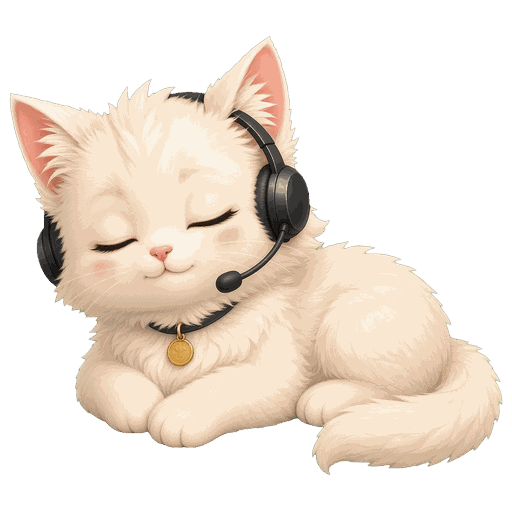
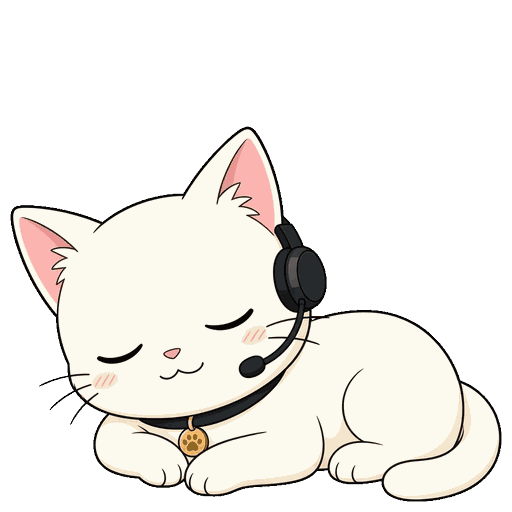
Restyle cat mascot as 2D anime cartoon with motion
Replace the painterly cat with cel-shaded anime poses (sleep,
scan, happy, sad, neutral), plus blink and glance frames.
CSS adds blink, ear twitch, head-tilt scanning, hop and
sparkles on wins, a falling tear on losses, and floating Zzz.
Trading logic is unchanged.

diff --git a/web/styles.css b/web/styles.css
@@ -380,6 +380,7 @@ td .num.bad  { color: var(--red); }
 
 
 
+
 /* ---------- brand + cat mascot ---------- */
 .brand { align-items: center; gap: 14px; min-width: 0; }
 .titles { min-width: 0; padding-top: 2px; flex: 1; }
@@ -406,65 +407,134 @@ td .num.bad  { color: var(--red); }
   width: 100%; height: 100%;
   transform-origin: 50% 90%;
 }
-.pose {
+.mood {
+  position: absolute;
+  inset: 0;
+  opacity: 0;
+  transition: opacity 0.38s ease;
+  pointer-events: none;
+}
+.cat-dock[data-mood="neutral"] .mood-neutral,
+.cat-dock:not([data-mood]) .mood-neutral { opacity: 1; }
+.cat-dock[data-mood="sleep"] .mood-sleep { opacity: 1; }
+.cat-dock[data-mood="scan"] .mood-scan { opacity: 1; }
+.cat-dock[data-mood="happy"] .mood-happy { opacity: 1; }
+.cat-dock[data-mood="sad"] .mood-sad { opacity: 1; }
+
+.frame {
   position: absolute;
   inset: 0;
   width: 100%; height: 100%;
   object-fit: contain;
   object-position: center bottom;
   opacity: 0;
-  transition: opacity 0.38s ease;
-  pointer-events: none;
   user-select: none;
   -webkit-user-drag: none;
+  pointer-events: none;
 }
-.cat-dock[data-mood="neutral"] .pose-neutral,
-.cat-dock:not([data-mood]) .pose-neutral { opacity: 1; }
-.cat-dock[data-mood="sleep"] .pose-sleep { opacity: 1; }
-.cat-dock[data-mood="scan"] .pose-scan { opacity: 1; }
-.cat-dock[data-mood="happy"] .pose-happy { opacity: 1; }
-.cat-dock[data-mood="sad"] .pose-sad { opacity: 1; }
+.mood .frame-open,
+.mood .frame-a { opacity: 1; }
 
-.zzz { display: none; }
-.cat-dock[data-mood="sleep"] .zzz { display: block; }
-
-@keyframes breathe {
-  0%, 100% { transform: translateY(0); }
-  50% { transform: translateY(-4px); }
+/* blink: flash the closed-eye frame over the open one */
+@keyframes blink-on {
+  0%, 82%, 93%, 100% { opacity: 0; }
+  84%, 91% { opacity: 1; }
 }
-@keyframes scan-bob {
-  0%, 100% { transform: translateY(0) rotate(-1.2deg); }
-  50% { transform: translateY(-5px) rotate(1.6deg); }
+@keyframes blink-off {
+  0%, 82%, 93%, 100% { opacity: 1; }
+  84%, 91% { opacity: 0; }
+}
+.cat-dock[data-mood="neutral"] .mood-neutral .frame-blink,
+.cat-dock[data-mood="happy"] .mood-happy .frame-blink,
+.cat-dock[data-mood="sad"] .mood-sad .frame-blink,
+.cat-dock[data-mood="scan"] .mood-scan .frame-blink {
+  z-index: 3;
+  animation: blink-on 3.8s steps(1, end) infinite;
+}
+.cat-dock[data-mood="neutral"] .mood-neutral .frame-open,
+.cat-dock[data-mood="happy"] .mood-happy .frame-open,
+.cat-dock[data-mood="sad"] .mood-sad .frame-open {
+  animation: blink-off 3.8s steps(1, end) infinite;
+}
+
+/* scan: glance left/right, blink covers both */
+@keyframes glance-a {
+  0%, 42% { opacity: 1; }
+  50%, 92% { opacity: 0; }
+  100% { opacity: 1; }
+}
+@keyframes glance-b {
+  0%, 42% { opacity: 0; }
+  50%, 92% { opacity: 1; }
+  100% { opacity: 0; }
+}
+.cat-dock[data-mood="scan"] .mood-scan .frame-a { animation: glance-a 3.4s ease-in-out infinite; }
+.cat-dock[data-mood="scan"] .mood-scan .frame-b { animation: glance-b 3.4s ease-in-out infinite; }
+.cat-dock[data-mood="scan"] .mood-scan .frame-blink { animation: blink-on 4.2s steps(1, end) infinite; }
+
+@keyframes idle-live {
+  0%, 100% { transform: translateY(0) rotate(0); }
+  28% { transform: translateY(-4px) rotate(0); }
+  56% { transform: translateY(0) rotate(0); }
+  74% { transform: translateY(-1px) rotate(-6deg); }
+  78% { transform: translateY(-1px) rotate(3deg); }
+  82% { transform: translateY(-2px) rotate(0); }
+}
+@keyframes scan-tilt {
+  0%, 42% { transform: translateY(-3px) rotate(-5deg); }
+  50%, 92% { transform: translateY(-5px) rotate(6deg); }
+  100% { transform: translateY(-3px) rotate(-5deg); }
 }
 @keyframes hop {
   0%, 100% { transform: translateY(0) scale(1); }
-  22% { transform: translateY(-18px) scale(1.04, 0.96); }
+  22% { transform: translateY(-20px) scale(1.05, 0.95); }
   40% { transform: translateY(0) scale(1); }
-  58% { transform: translateY(-10px) scale(1.03, 0.97); }
+  58% { transform: translateY(-11px) scale(1.04, 0.96); }
   74% { transform: translateY(0) scale(1); }
 }
+@keyframes happy-bob {
+  0%, 100% { transform: translateY(0) rotate(-1deg); }
+  50% { transform: translateY(-6px) rotate(2deg); }
+}
 @keyframes droop {
-  0%, 100% { transform: translateY(5px) rotate(-2.2deg); }
-  50% { transform: translateY(7px) rotate(-1deg); }
+  0%, 100% { transform: translateY(5px) rotate(-2.4deg); }
+  50% { transform: translateY(8px) rotate(-1deg); }
 }
 @keyframes snooze {
   0%, 100% { transform: translateY(0); }
-  50% { transform: translateY(3px); }
+  50% { transform: translateY(4px); }
 }
 @keyframes zzz-rise {
   0% { opacity: 0; transform: translate(0, 8px) scale(0.7); }
   25% { opacity: 1; }
-  100% { opacity: 0; transform: translate(12px, -20px) scale(1.15); }
+  100% { opacity: 0; transform: translate(14px, -22px) scale(1.15); }
+}
+@keyframes sparkle {
+  0%, 100% { opacity: 0; transform: scale(0.4) rotate(0deg); }
+  40% { opacity: 1; transform: scale(1.15) rotate(20deg); }
+  70% { opacity: 0.75; transform: scale(0.9) rotate(-8deg); }
+}
+@keyframes tear-fall {
+  0%, 12% { opacity: 0; transform: translateY(0) scale(0.6); }
+  22% { opacity: 1; transform: translateY(2px) scale(1); }
+  80% { opacity: 1; transform: translateY(18px) scale(1); }
+  100% { opacity: 0; transform: translateY(26px) scale(0.8); }
 }
 
-.cat-dock[data-mood="neutral"] .mascot { animation: breathe 3.4s ease-in-out infinite; }
-.cat-dock[data-mood="scan"] .mascot { animation: scan-bob 2.4s ease-in-out infinite; }
+.cat-dock[data-mood="neutral"] .mascot { animation: idle-live 3.6s ease-in-out infinite; }
+.cat-dock[data-mood="scan"] .mascot { animation: scan-tilt 3.4s ease-in-out infinite; }
 .cat-dock[data-mood="sleep"] .mascot { animation: snooze 3.4s ease-in-out infinite; }
 .cat-dock[data-mood="sad"] .mascot { animation: droop 2.6s ease-in-out infinite; }
-.cat-dock[data-mood="happy"] .mascot.is-hop { animation: hop 0.95s ease-in-out 0s 2; }
+.cat-dock[data-mood="happy"] .mascot { animation: happy-bob 0.9s ease-in-out infinite; }
+.cat-dock[data-mood="happy"] .mascot.is-hop { animation: hop 0.95s ease-in-out 0s 2, happy-bob 0.9s ease-in-out 1.9s infinite; }
+
+.zzz, .fx-sparkles, .fx-tear { display: none; }
+.cat-dock[data-mood="sleep"] .zzz { display: block; }
+.cat-dock[data-mood="happy"] .fx-sparkles { display: block; }
+.cat-dock[data-mood="sad"] .fx-tear { display: block; }
 
 .zzz {
-  position: absolute; top: 6px; right: 2px; z-index: 2;
+  position: absolute; top: 6px; right: 2px; z-index: 4;
   font-family: var(--sans); font-weight: 800; color: var(--pink);
   pointer-events: none; line-height: 1;
   text-shadow: 0 1px 0 rgba(0,0,0,.25);
@@ -473,6 +543,30 @@ td .num.bad  { color: var(--red); }
 .zzz span:nth-child(1) { font-size: 12px; right: 10px; top: 20px; animation-delay: 0s; }
 .zzz span:nth-child(2) { font-size: 15px; right: 0; top: 6px; animation-delay: 0.7s; }
 .zzz span:nth-child(3) { font-size: 18px; right: -10px; top: -8px; animation-delay: 1.4s; }
+
+.fx-sparkles {
+  position: absolute; inset: 0; z-index: 4; pointer-events: none;
+  overflow: visible;
+}
+.fx-sparkles .sp { fill: #ffd60a; transform-box: fill-box; transform-origin: 50% 50%; animation: sparkle 0.9s ease-in-out infinite; }
+.fx-sparkles .s2 { animation-delay: 0.18s; fill: #fff1a8; }
+.fx-sparkles .s3 { animation-delay: 0.36s; fill: #ffd60a; }
+.fx-sparkles .s4 { animation-delay: 0.52s; fill: #fff6c8; }
+
+.fx-tear {
+  position: absolute;
+  left: 38%;
+  top: 46%;
+  width: 8px; height: 12px;
+  background: #8ec8ff;
+  border: 1.5px solid #3a7aa8;
+  border-radius: 50% 50% 50% 50% / 40% 40% 60% 60%;
+  clip-path: polygon(50% 0, 100% 55%, 50% 100%, 0 55%);
+  z-index: 4;
+  pointer-events: none;
+  animation: tear-fall 2s ease-in infinite;
+  box-shadow: 0 0 0 1px rgba(255,255,255,.2) inset;
+}
 
 .speech {
   margin-top: 8px;
@@ -537,7 +631,6 @@ td .num.bad  { color: var(--red); }
 }
 .page-login .div:before, .page-login .div:after { content: ""; flex: 1; height: 1px; background: var(--border); }
 
-/* ---------- phones: Pixel 7 (~412px) hero header ---------- */
 @media (max-width: 760px) {
   .topbar { padding: 12px 12px 10px; align-items: flex-start; }
   .mascot-wrap { width: 132px; height: 132px; }
@@ -546,11 +639,12 @@ td .num.bad  { color: var(--red); }
   .brand { width: 100%; }
 }
 
-/* ---------- reduced motion: keep the pose, drop the motion ---------- */
 @media (prefers-reduced-motion: reduce) {
-  .mascot, .pose, .zzz span, .speech, .log-row, .toast, .btn {
+  .mascot, .frame, .zzz span, .fx-sparkles .sp, .fx-tear, .speech, .log-row, .toast, .btn, .mood {
     animation: none !important;
     transition: none !important;
   }
+  .mood .frame-open, .mood .frame-a { opacity: 1 !important; }
+  .mood .frame-blink, .mood .frame-b { opacity: 0 !important; }
   .toast { transform: translateX(-50%) translateY(0); }
 }

diff --git a/web/login.html b/web/login.html
@@ -12,14 +12,36 @@
   <div class="login-card">
     <div class="login-cat">
       <div class="cat-dock" data-mood="sleep" aria-hidden="true">
-                <div class="mascot-wrap" aria-hidden="true">
+                        <div class="mascot-wrap" aria-hidden="true">
           <div class="mascot">
-            <img class="pose pose-neutral" src="/static/assets/cat/neutral.webp" width="512" height="512" alt="" decoding="async">
-            <img class="pose pose-sleep" src="/static/assets/cat/sleep.webp" width="512" height="512" alt="" decoding="async">
-            <img class="pose pose-scan" src="/static/assets/cat/scan.webp" width="512" height="512" alt="" decoding="async">
-            <img class="pose pose-happy" src="/static/assets/cat/happy.webp" width="512" height="512" alt="" decoding="async">
-            <img class="pose pose-sad" src="/static/assets/cat/sad.webp" width="512" height="512" alt="" decoding="async">
+            <div class="mood mood-neutral">
+              <img class="frame frame-open" src="/static/assets/cat/neutral.webp" width="512" height="512" alt="" decoding="async">
+              <img class="frame frame-blink" src="/static/assets/cat/neutral-blink.webp" width="512" height="512" alt="" decoding="async">
+            </div>
+            <div class="mood mood-sleep">
+              <img class="frame frame-open" src="/static/assets/cat/sleep.webp" width="512" height="512" alt="" decoding="async">
+            </div>
+            <div class="mood mood-scan">
+              <img class="frame frame-a" src="/static/assets/cat/scan.webp" width="512" height="512" alt="" decoding="async">
+              <img class="frame frame-b" src="/static/assets/cat/scan-look.webp" width="512" height="512" alt="" decoding="async">
+              <img class="frame frame-blink" src="/static/assets/cat/scan-blink.webp" width="512" height="512" alt="" decoding="async">
+            </div>
+            <div class="mood mood-happy">
+              <img class="frame frame-open" src="/static/assets/cat/happy.webp" width="512" height="512" alt="" decoding="async">
+              <img class="frame frame-blink" src="/static/assets/cat/happy-blink.webp" width="512" height="512" alt="" decoding="async">
+            </div>
+            <div class="mood mood-sad">
+              <img class="frame frame-open" src="/static/assets/cat/sad.webp" width="512" height="512" alt="" decoding="async">
+              <img class="frame frame-blink" src="/static/assets/cat/sad-blink.webp" width="512" height="512" alt="" decoding="async">
+            </div>
           </div>
+          <svg class="fx-sparkles" viewBox="0 0 120 120" aria-hidden="true">
+            <path class="sp s1" d="M18 22 L20.2 27.2 L25.6 29.4 L20.2 31.6 L18 36.8 L15.8 31.6 L10.4 29.4 L15.8 27.2 Z"/>
+            <path class="sp s2" d="M98 16 L100 20.6 L104.8 22.8 L100 25 L98 29.6 L96 25 L91.2 22.8 L96 20.6 Z"/>
+            <path class="sp s3" d="M104 58 L105.4 61.4 L109 62.8 L105.4 64.2 L104 67.6 L102.6 64.2 L99 62.8 L102.6 61.4 Z"/>
+            <path class="sp s4" d="M12 64 L13.2 66.8 L16.2 68 L13.2 69.2 L12 72 L10.8 69.2 L7.8 68 L10.8 66.8 Z"/>
+          </svg>
+          <div class="fx-tear"></div>
           <div class="zzz"><span>z</span><span>z</span><span>z</span></div>
         </div>
       </div>

diff --git a/web/index.html b/web/index.html
@@ -18,14 +18,36 @@
   <header class="topbar">
     <div class="brand">
       <div class="cat-dock" id="catDock" data-mood="sleep">
-                <div class="mascot-wrap" aria-hidden="true">
+                        <div class="mascot-wrap" aria-hidden="true">
           <div class="mascot">
-            <img class="pose pose-neutral" src="/static/assets/cat/neutral.webp" width="512" height="512" alt="" decoding="async">
-            <img class="pose pose-sleep" src="/static/assets/cat/sleep.webp" width="512" height="512" alt="" decoding="async">
-            <img class="pose pose-scan" src="/static/assets/cat/scan.webp" width="512" height="512" alt="" decoding="async">
-            <img class="pose pose-happy" src="/static/assets/cat/happy.webp" width="512" height="512" alt="" decoding="async">
-            <img class="pose pose-sad" src="/static/assets/cat/sad.webp" width="512" height="512" alt="" decoding="async">
+            <div class="mood mood-neutral">
+              <img class="frame frame-open" src="/static/assets/cat/neutral.webp" width="512" height="512" alt="" decoding="async">
+              <img class="frame frame-blink" src="/static/assets/cat/neutral-blink.webp" width="512" height="512" alt="" decoding="async">
+            </div>
+            <div class="mood mood-sleep">
+              <img class="frame frame-open" src="/static/assets/cat/sleep.webp" width="512" height="512" alt="" decoding="async">
+            </div>
+            <div class="mood mood-scan">
+              <img class="frame frame-a" src="/static/assets/cat/scan.webp" width="512" height="512" alt="" decoding="async">
+              <img class="frame frame-b" src="/static/assets/cat/scan-look.webp" width="512" height="512" alt="" decoding="async">
+              <img class="frame frame-blink" src="/static/assets/cat/scan-blink.webp" width="512" height="512" alt="" decoding="async">
+            </div>
+            <div class="mood mood-happy">
+              <img class="frame frame-open" src="/static/assets/cat/happy.webp" width="512" height="512" alt="" decoding="async">
+              <img class="frame frame-blink" src="/static/assets/cat/happy-blink.webp" width="512" height="512" alt="" decoding="async">
+            </div>
+            <div class="mood mood-sad">
+              <img class="frame frame-open" src="/static/assets/cat/sad.webp" width="512" height="512" alt="" decoding="async">
+              <img class="frame frame-blink" src="/static/assets/cat/sad-blink.webp" width="512" height="512" alt="" decoding="async">
+            </div>
           </div>
+          <svg class="fx-sparkles" viewBox="0 0 120 120" aria-hidden="true">
+            <path class="sp s1" d="M18 22 L20.2 27.2 L25.6 29.4 L20.2 31.6 L18 36.8 L15.8 31.6 L10.4 29.4 L15.8 27.2 Z"/>
+            <path class="sp s2" d="M98 16 L100 20.6 L104.8 22.8 L100 25 L98 29.6 L96 25 L91.2 22.8 L96 20.6 Z"/>
+            <path class="sp s3" d="M104 58 L105.4 61.4 L109 62.8 L105.4 64.2 L104 67.6 L102.6 64.2 L99 62.8 L102.6 61.4 Z"/>
+            <path class="sp s4" d="M12 64 L13.2 66.8 L16.2 68 L13.2 69.2 L12 72 L10.8 69.2 L7.8 68 L10.8 66.8 Z"/>
+          </svg>
+          <div class="fx-tear"></div>
           <div class="zzz"><span>z</span><span>z</span><span>z</span></div>
         </div>
       </div>
